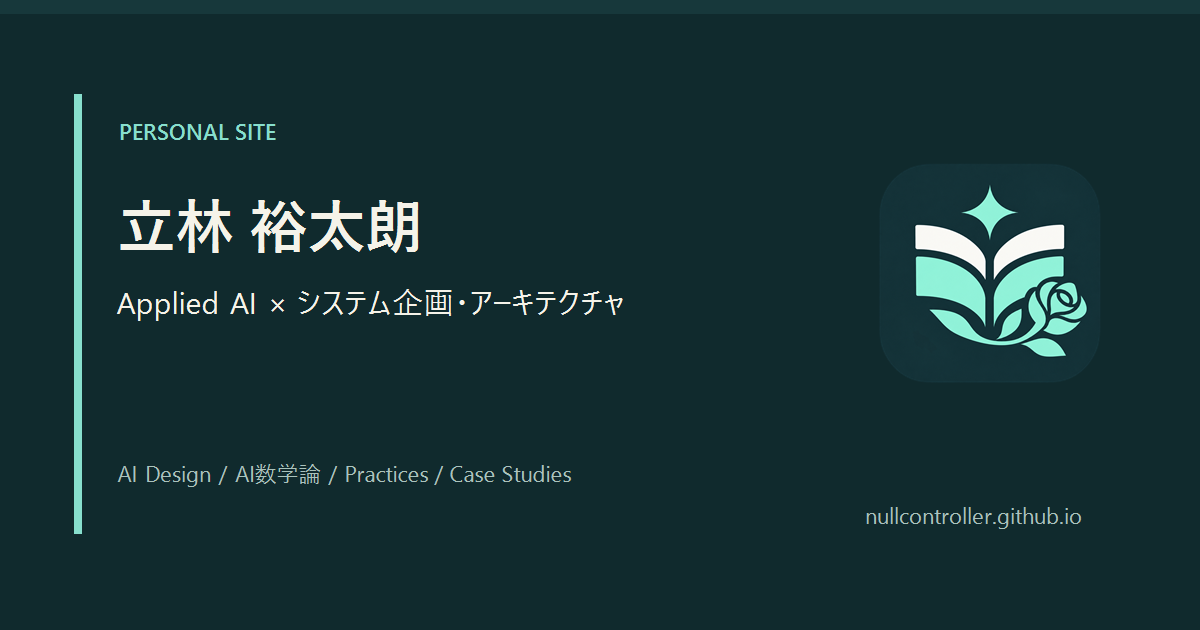
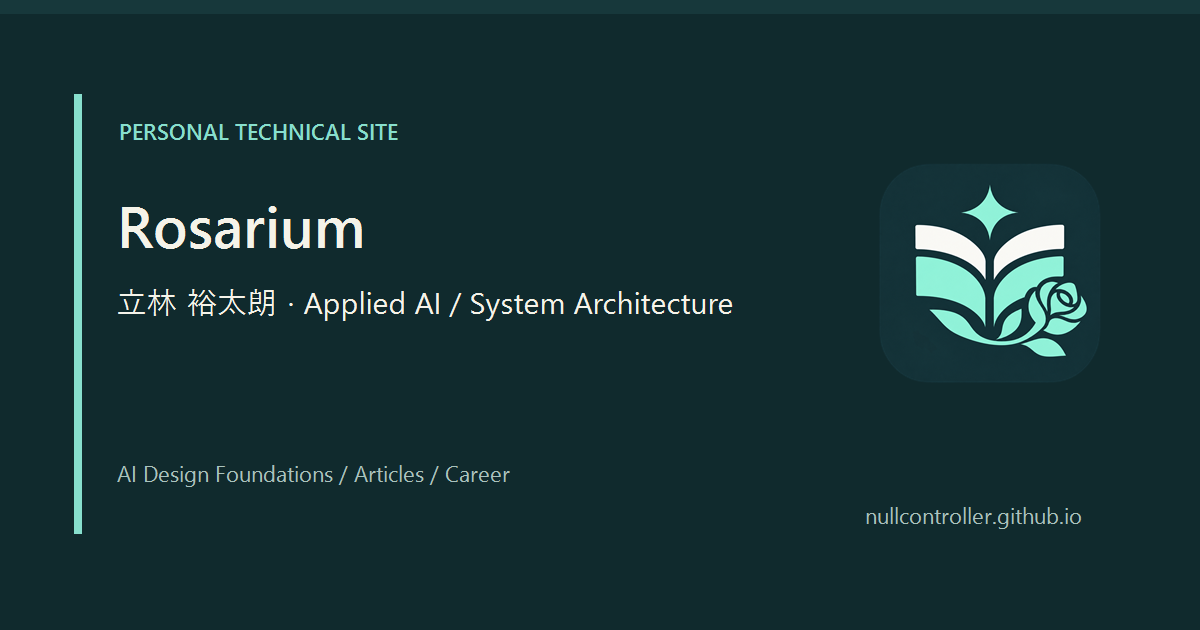
Rebrand personal site as Rosarium

diff --git a/src/styles/global.css b/src/styles/global.css
@@ -168,19 +168,29 @@ blockquote {
   gap: 1rem;
 }
 .brand {
-  font-size: 1.15rem;
-  line-height: 1.3;
-  font-weight: 700;
+  line-height: 1.2;
   color: var(--ink);
   text-decoration: none;
-  letter-spacing: -0.03em;
 }
-.brand span {
+.brand-name {
   display: block;
+  font-size: 1.2rem;
+  font-weight: 700;
+  letter-spacing: 0.02em;
+}
+.brand-author {
+  display: inline-block;
+  margin-top: 5px;
+  font-size: 0.7rem;
+  font-weight: 600;
+  color: var(--ink);
+}
+.brand-domain {
+  display: inline-block;
+  margin-left: 0.55rem;
   font-size: 0.6rem;
-  letter-spacing: 0.16em;
+  letter-spacing: 0.1em;
   color: var(--muted);
-  margin-top: 7px;
 }
 .header-links {
   display: flex;
@@ -286,6 +296,21 @@ blockquote {
   color: var(--muted);
   font-size: 0.72rem;
   text-align: center;
+}
+.footer-brand strong,
+.footer-brand span {
+  display: block;
+}
+.footer-brand span {
+  color: var(--muted);
+  font-size: 0.75rem;
+  margin-top: 0.2rem;
+}
+.hero-author {
+  color: var(--muted);
+  font-size: 0.9rem;
+  font-weight: 600;
+  letter-spacing: 0.08em;
 }
 .eyebrow {
   font-size: 0.68rem;
@@ -569,11 +594,14 @@ blockquote {
     position: relative;
     align-items: flex-start;
   }
-  .brand {
-    font-size: 0.95rem;
+  .brand-name {
+    font-size: 1rem;
   }
-  .brand span {
-    font-size: 0.5rem;
+  .brand-author {
+    font-size: 0.62rem;
+  }
+  .brand-domain {
+    display: none;
   }
   .header-links {
     gap: 0.65rem;

diff --git a/src/lib/navigation.ts b/src/lib/navigation.ts
@@ -3,7 +3,7 @@ import { label } from "./site";
 export type Entry = CollectionEntry<"pages">;
 export const navigation = [
   [
-    { path: "", title: "Home", summary: "立林 裕太朗の公開サイト" },
+    { path: "", title: "Home", summary: "Rosariumの入口" },
     { path: "career", title: "Career", summary: "職務経験・希望する役割" },
   ],
   [
@@ -30,7 +30,7 @@ export const navigation = [
   [
     { path: "overview", title: "全体目次", summary: "全コンテンツを見渡す" },
     { path: "reference", title: "Reference", summary: "用語・数式・参照資料" },
-    { path: "about", title: "About", summary: "このサイトについて" },
+    { path: "about", title: "About", summary: "Rosariumについて" },
     { path: "search", title: "Search", summary: "サイト内を検索" },
   ],
 ];

diff --git a/src/pages/rss.xml.ts b/src/pages/rss.xml.ts
@@ -40,8 +40,7 @@ export const GET: APIRoute = async ({ site }) => {
     .join("\n");
 
   return new Response(
-    `<?xml version="1.0" encoding="UTF-8"?>\n<rss version="2.0"><channel>\n    <title>立林 裕太朗 | Articles</title>\n    <description>Applied AI、システム設計、実務事例と論考</description>\n    <link>${escapeXml(channelUrl)}</link>\n${items}\n  </channel></rss>\n`,
+    `<?xml version="1.0" encoding="UTF-8"?>\n<rss version="2.0"><channel>\n    <title>Rosarium | Articles</title>\n    <description>Applied AI、システム設計、実務事例と論考</description>\n    <link>${escapeXml(channelUrl)}</link>\n${items}\n  </channel></rss>\n`,
     { headers: { "Content-Type": "application/rss+xml; charset=utf-8" } },
   );
 };
-

diff --git a/src/pages/site.webmanifest.ts b/src/pages/site.webmanifest.ts
@@ -6,9 +6,9 @@ export const prerender = true;
 export const GET: APIRoute = () =>
   new Response(
     JSON.stringify({
-      name: "立林 裕太朗 | Applied AI / System Architecture",
-      short_name: "立林 裕太朗",
-      description: "立林 裕太朗のキャリア、AI・システム設計の知識、実務事例と記事。",
+      name: "Rosarium — 立林 裕太朗",
+      short_name: "Rosarium",
+      description: "立林 裕太朗がApplied AI・System Architecture・設計知識・実務事例を育てる個人技術サイト。",
       start_url: url(),
       scope: url(),
       display: "browser",

diff --git a/README.md b/README.md
@@ -1,6 +1,8 @@
-# 立林 裕太朗 — Personal Site
+# Rosarium
 
-立林 裕太朗のCareer・技術知識・設計思想・実務事例・記事を統合した個人サイトです。AI Design Foundationsはサイト内の技術知識・設計体系を表します。
+立林 裕太朗 — Personal Technical Site
+
+Rosariumは、立林 裕太朗のCareer・技術知識・設計思想・実務事例・記事を統合した個人サイトです。AI Design FoundationsはRosarium内の技術知識・設計体系を表します。
 MarkdownをGitで管理し、レビュー・検証を経てAstroから静的HTMLを生成します。
 
 **[サイトを見る](https://nullcontroller.github.io/ai-design-foundations/)**
